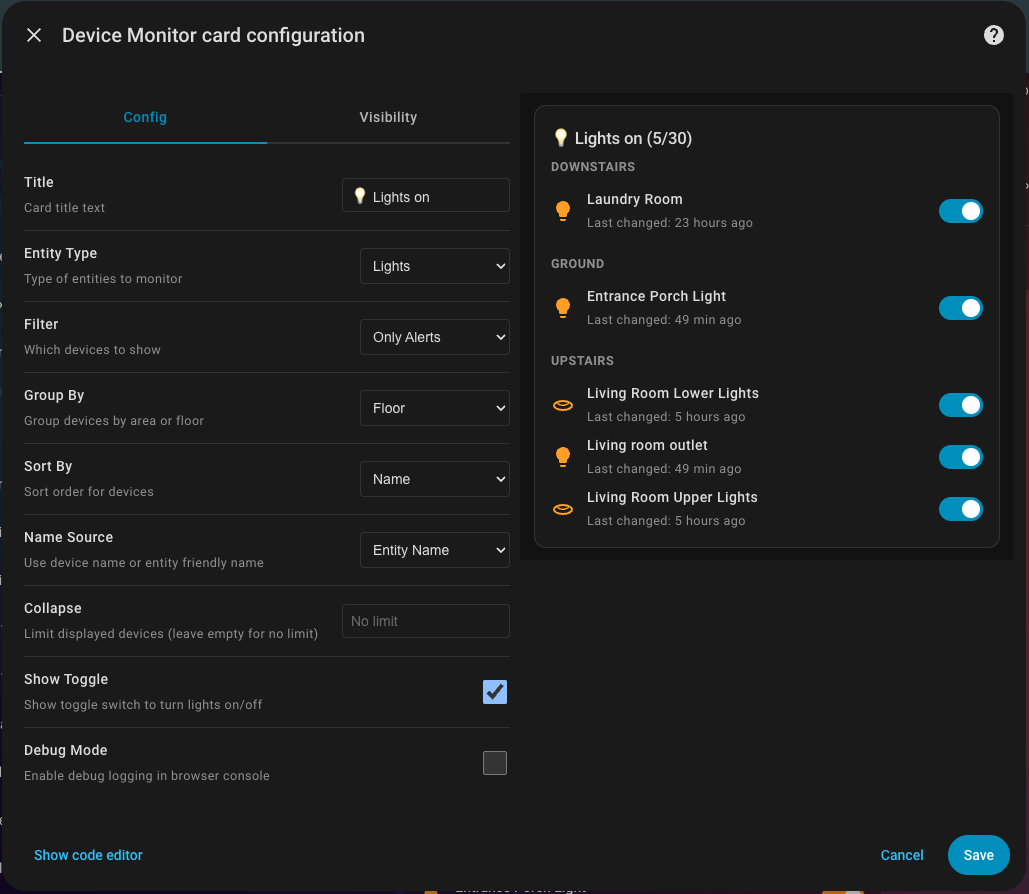
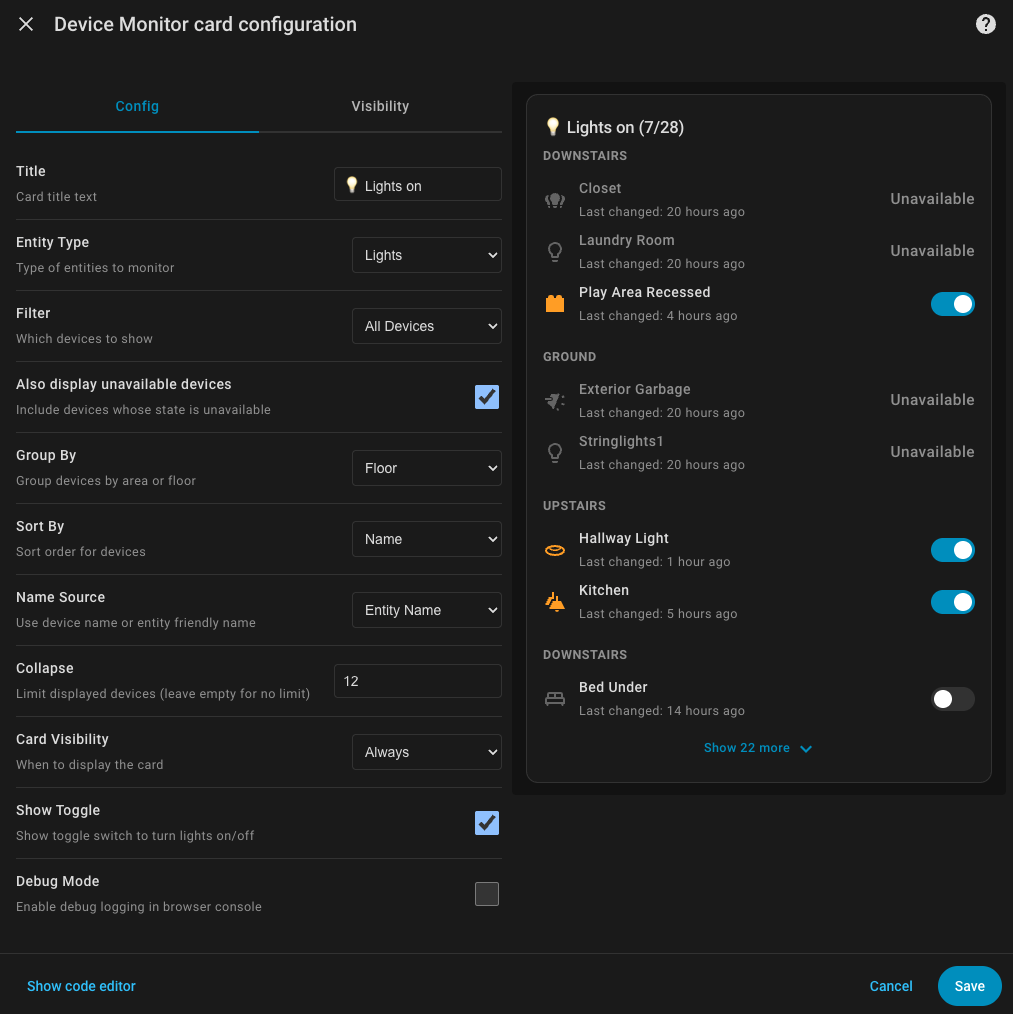
feat: show unavailable devices
Add option to show unavailable devices as part of the alerts

- - - - - - -

Fix #13

diff --git a/dist/device-monitor-card.js b/dist/device-monitor-card.js
@@ -15,6 +15,8 @@
 /**
  * Localization Helper for multi-language support
  */
+const CARD_VERSION = '1.2.2';
+
 class LocalizationHelper {
   constructor() {
     this.translations = {};
@@ -33,7 +35,7 @@ class LocalizationHelper {
 
     this.loadPromises[language] = (async () => {
       try {
-        const response = await fetch(`/local/community/device-monitor-card/translations/${language}.json`);
+        const response = await fetch(`/local/community/device-monitor-card/translations/${language}.json?v=${CARD_VERSION}`);
         if (!response.ok) {
           throw new Error(`Translation file not found: ${language} (status: ${response.status})`);
         }
@@ -193,13 +195,13 @@ const registryHelpers = {
 
 const collectDevices = (hass, config, options = {}) => {
   if (!hass) {
-    return { alertDevices: [], normalDevices: [], totalDevices: 0, allDevices: [] };
+    return { alertDevices: [], normalDevices: [], unavailableDevices: [], totalDevices: 0, allDevices: [] };
   }
 
   const entityType = config.entity_type || 'battery';
   const strategy = ENTITY_TYPES[entityType];
   if (!strategy) {
-    return { alertDevices: [], normalDevices: [], totalDevices: 0, allDevices: [] };
+    return { alertDevices: [], normalDevices: [], unavailableDevices: [], totalDevices: 0, allDevices: [] };
   }
 
   const includeArea = options.includeArea || false;
@@ -270,7 +272,11 @@ const collectDevices = (hass, config, options = {}) => {
     }
 
     const entityName = attributes.friendly_name || entityId;
-    const stateInfo = strategy.evaluateState({ ...entity, entity_id: entityId }, config, hass);
+    const isUnavailable = entity?.state === 'unavailable';
+    const stateInfo = {
+      ...strategy.evaluateState({ ...entity, entity_id: entityId }, config, hass),
+      isUnavailable
+    };
     const storageKey = entityType === 'battery' ? deviceId : entityId;
 
     const existingDevice = devices[storageKey];
@@ -306,6 +312,7 @@ const collectDevices = (hass, config, options = {}) => {
   const allDevices = Object.values(devices);
   const alertDevices = allDevices.filter(d => d.stateInfo.isAlert);
   const normalDevices = allDevices.filter(d => !d.stateInfo.isAlert);
+  const unavailableDevices = allDevices.filter(d => d.stateInfo.isUnavailable);
 
   if (debug) {
     console.log(`[Device Monitor ${debugTag}] Summary for ${entityType}:`, {
@@ -318,6 +325,7 @@ const collectDevices = (hass, config, options = {}) => {
   return {
     alertDevices,
     normalDevices,
+    unavailableDevices,
     allDevices,
     totalDevices: allDevices.length
   };
@@ -403,6 +411,7 @@ const ENTITY_TYPES = {
 
     // Get color for battery state
     getColor: (state) => {
+      if (state.isUnavailable) return 'var(--disabled-text-color, #9e9e9e)';
       if (state.value === 'low') return '#ff0000';
       if (state.value === 'ok') return '#44739e';
       if (state.numericValue === null) return '#ffa500';
@@ -488,6 +497,7 @@ const ENTITY_TYPES = {
 
     // Get color for contact sensor state
     getColor: (state) => {
+      if (state.isUnavailable) return 'var(--disabled-text-color, #9e9e9e)';
       return state.isAlert ? '#ffa500' : 'var(--success-color, #4caf50)';
     },
 
@@ -533,6 +543,7 @@ const ENTITY_TYPES = {
 
     // Get color for light state
     getColor: (state) => {
+      if (state.isUnavailable) return 'var(--disabled-text-color, #9e9e9e)';
       return state.isAlert ? '#ffa500' : 'var(--disabled-text-color, #9e9e9e)';
     },
 
@@ -579,6 +590,7 @@ class DeviceMonitorCard extends HTMLElement {
     this._config = {
       entity_type: entityType,
       filter: config.filter || 'alert',
+      show_unavailable: config.show_unavailable || false,
       battery_threshold: config.battery_threshold || 20,
       title: config.title || defaultTitle,
       debug: config.debug || false,
@@ -612,22 +624,48 @@ class DeviceMonitorCard extends HTMLElement {
    * Get all devices for the configured entity type
    */
   _getDevices() {
-    const { alertDevices, normalDevices, totalDevices } = collectDevices(this._hass, this._config, {
+    const { alertDevices, normalDevices, unavailableDevices, totalDevices } = collectDevices(this._hass, this._config, {
       includeArea: true,
       debug: this._config.debug,
       debugTag: 'Card'
     });
 
-    const groupedAlertDevices = this._groupDevices(alertDevices);
-    const groupedNormalDevices = this._groupDevices(normalDevices);
+    const includeUnavailable = this._config.show_unavailable;
+
+    // Clone arrays to avoid mutating original collections
+    let alerts = [...alertDevices];
+    let normals = [...normalDevices];
+
+    if (includeUnavailable) {
+      const unavailableIds = new Set(unavailableDevices.map(d => d.entityId));
+      const alertIds = new Set(alerts.map(d => d.entityId));
+
+      unavailableDevices.forEach(device => {
+        if (!alertIds.has(device.entityId)) {
+          alerts.push(device);
+        }
+      });
+
+      normals = normals.filter(d => !unavailableIds.has(d.entityId));
+    } else {
+      alerts = alerts.filter(d => !d.stateInfo.isUnavailable);
+      normals = normals.filter(d => !d.stateInfo.isUnavailable);
+    }
+
+    const groupedAlertDevices = this._groupDevices(alerts);
+    const groupedNormalDevices = this._groupDevices(normals);
 
     const sortedAlertDevices = this._sortDevices(groupedAlertDevices);
     const sortedNormalDevices = this._sortDevices(groupedNormalDevices);
 
+    const adjustedTotal = includeUnavailable
+      ? totalDevices
+      : Math.max(0, totalDevices - unavailableDevices.length);
+
     return {
       alertDevices: sortedAlertDevices,
       normalDevices: sortedNormalDevices,
-      totalDevices: totalDevices
+      totalDevices: adjustedTotal
     };
   }
 
@@ -836,13 +874,24 @@ class DeviceMonitorCard extends HTMLElement {
   }
 
   /**
+   * Localized label for unavailable state
+   */
+  _getUnavailableLabel() {
+    if (!this._hass) return 'Unavailable';
+    const localized = this._hass.localize?.('state.default.unavailable') ||
+      this._hass.localize?.('state.unavailable');
+    return localized || 'Unavailable';
+  }
+
+  /**
    * Render a single device row
    */
   _renderDevice(device) {
     const strategy = ENTITY_TYPES[this._config.entity_type];
     const stateInfo = { ...device.stateInfo, attributes: device.attributes, entityId: device.entityId };
     const isLight = this._config.entity_type === 'light';
-    const showToggle = this._config.show_toggle && isLight;
+    const isUnavailable = stateInfo.isUnavailable;
+    const showToggle = this._config.show_toggle && isLight && !isUnavailable;
     const isOn = device.stateInfo.value === 'on';
 
     // Use custom icon if set, otherwise use strategy icon
@@ -851,6 +900,9 @@ class DeviceMonitorCard extends HTMLElement {
 
     // Choose name based on config
     const displayName = this._config.name_source === 'entity' ? device.entityName : device.deviceName;
+    const nameClass = `device-name${isUnavailable ? ' unavailable' : ''}`;
+    const stateValue = isUnavailable ? this._getUnavailableLabel() : device.stateInfo.displayValue;
+    const stateValueClass = `state-value${isUnavailable ? ' unavailable' : ''}`;
 
     return `
       <div class="device-item" data-device-id="${device.deviceId}" data-entity-id="${device.entityId}">
@@ -861,7 +913,7 @@ class DeviceMonitorCard extends HTMLElement {
           ></ha-icon>
         </div>
         <div class="device-info">
-          <div class="device-name">${displayName}</div>
+          <div class="${nameClass}">${displayName}</div>
           <div class="device-secondary">
             ${localizationHelper.localize('labels.last_changed')}: ${this._formatLastChanged(device.lastChanged)}
           </div>
@@ -874,8 +926,8 @@ class DeviceMonitorCard extends HTMLElement {
             </label>
           </div>
         ` : `
-          <div class="state-value">
-            ${device.stateInfo.displayValue}
+          <div class="${stateValueClass}">
+            ${stateValue}
           </div>
         `}
       </div>
@@ -1045,6 +1097,10 @@ class DeviceMonitorCard extends HTMLElement {
           white-space: nowrap;
         }
 
+        .device-name.unavailable {
+          color: var(--secondary-text-color);
+        }
+
         .device-secondary {
           font-size: 0.9em;
           color: var(--secondary-text-color);
@@ -1057,6 +1113,10 @@ class DeviceMonitorCard extends HTMLElement {
           margin-left: 12px;
           flex-shrink: 0;
           color: var(--primary-text-color);
+        }
+
+        .state-value.unavailable {
+          color: var(--secondary-text-color);
         }
 
         .toggle-container {
@@ -1246,6 +1306,7 @@ class DeviceMonitorCard extends HTMLElement {
     return {
       entity_type: 'battery',
       filter: 'alert',
+      show_unavailable: false,
       battery_threshold: 20,
       title: 'Low Battery',
       card_visibility: 'always',
@@ -1439,6 +1500,18 @@ class DeviceMonitorCardEditor extends HTMLElement {
           </select>
         </div>
 
+        <div class="option">
+          <div class="label-container">
+            <label>${l('show_unavailable')}</label>
+            <div class="description">${l('show_unavailable_description')}</div>
+          </div>
+          <input
+            id="show_unavailable"
+            type="checkbox"
+            ${this._config.show_unavailable ? 'checked' : ''}
+          />
+        </div>
+
         <div class="option ${showBatteryThreshold ? '' : 'hidden'}" id="battery_threshold_option">
           <div class="label-container">
             <label>${l('battery_threshold')}</label>
@@ -1558,6 +1631,7 @@ class DeviceMonitorCardEditor extends HTMLElement {
     const titleInput = this.querySelector('#title');
     const entityTypeInput = this.querySelector('#entity_type');
     const filterInput = this.querySelector('#filter');
+    const showUnavailableInput = this.querySelector('#show_unavailable');
     const thresholdInput = this.querySelector('#battery_threshold');
     const groupByInput = this.querySelector('#group_by');
     const sortByInput = this.querySelector('#sort_by');
@@ -1594,6 +1668,12 @@ class DeviceMonitorCardEditor extends HTMLElement {
     filterInput.onchange = updateConfig((config, target) => {
       config.filter = target.value;
     }, false);
+
+    if (showUnavailableInput) {
+      showUnavailableInput.onchange = updateConfig((config, target) => {
+        config.show_unavailable = target.checked;
+      }, false);
+    }
 
     groupByInput.onchange = updateConfig((config, target) => {
       config.group_by = target.value || null;
@@ -1662,6 +1742,7 @@ class DeviceMonitorBadge extends HTMLElement {
       battery_threshold: config.battery_threshold || 20,
       title: config.title || defaultTitle,
       badge_visibility: config.badge_visibility || 'always',
+      show_unavailable: config.show_unavailable || false,
       debug: config.debug || false,
       ...config,
       tap_action: tapAction,
@@ -1684,13 +1765,29 @@ class DeviceMonitorBadge extends HTMLElement {
    * Get all devices for the configured entity type
    */
   _getDevices() {
-    const { alertDevices, totalDevices } = collectDevices(this._hass, this._config, {
+    const { alertDevices, unavailableDevices, totalDevices } = collectDevices(this._hass, this._config, {
       includeArea: false,
       debug: this._config.debug,
       debugTag: 'Badge'
     });
 
-    return { alertDevices, totalDevices };
+    const includeUnavailable = this._config.show_unavailable;
+    let alerts = [...alertDevices];
+
+    if (includeUnavailable) {
+      const alertIds = new Set(alerts.map(d => d.entityId));
+      unavailableDevices.forEach(device => {
+        if (!alertIds.has(device.entityId)) {
+          alerts.push(device);
+        }
+      });
+    } else {
+      alerts = alerts.filter(d => !d.stateInfo.isUnavailable);
+    }
+
+    const adjustedTotal = includeUnavailable ? totalDevices : Math.max(0, totalDevices - unavailableDevices.length);
+
+    return { alertDevices: alerts, totalDevices: adjustedTotal };
   }
 
   /**
@@ -1987,6 +2084,7 @@ class DeviceMonitorBadge extends HTMLElement {
       battery_threshold: 20,
       title: 'Low Battery',
       badge_visibility: 'always',
+      show_unavailable: false,
       debug: false,
       tap_action: { action: 'none' },
       hold_action: { action: 'none' },
@@ -2200,6 +2298,18 @@ class DeviceMonitorBadgeEditor extends HTMLElement {
 
         <div class="option">
           <div class="label-container">
+            <label>${l('show_unavailable')}</label>
+            <div class="description">${l('show_unavailable_description')}</div>
+          </div>
+          <input
+            id="show_unavailable"
+            type="checkbox"
+            ${this._config.show_unavailable ? 'checked' : ''}
+          />
+        </div>
+
+        <div class="option">
+          <div class="label-container">
             <label>${l('card_visibility')}</label>
             <div class="description">${l('badge_visibility_description')}</div>
           </div>
@@ -2312,6 +2422,7 @@ class DeviceMonitorBadgeEditor extends HTMLElement {
       const titleInput = this.querySelector('#title');
       const entityTypeInput = this.querySelector('#entity_type');
       const thresholdInput = this.querySelector('#battery_threshold');
+      const showUnavailableInput = this.querySelector('#show_unavailable');
       const badgeVisibilityInput = this.querySelector('#badge_visibility');
       const tapActionTypeInput = this.querySelector('#tap_action_type');
       const tapActionNavigateInput = this.querySelector('#tap_action_navigation_path');
@@ -2344,6 +2455,12 @@ class DeviceMonitorBadgeEditor extends HTMLElement {
         thresholdInput.oninput = updateConfig((config, target) => {
           config.battery_threshold = Number(target.value);
         }, true);
+      }
+
+      if (showUnavailableInput) {
+        showUnavailableInput.onchange = updateConfig((config, target) => {
+          config.show_unavailable = target.checked;
+        }, false);
       }
 
       if (tapActionNavigateInput) {

diff --git a/README.md b/README.md
@@ -21,6 +21,7 @@ A versatile Home Assistant Lovelace card and badge that monitors multiple types 
 - **Interactive Controls**: Toggle lights on/off directly from the card (optional)
 - **Custom Icons**: Respects user-configured entity icons
 - **Smart Filtering**: For batteries, excludes duplicate sensors when binary_sensor.*_battery_low exists
+- **Unavailable Handling**: Optional switch to include unavailable devices (shown muted, without toggles, using HA’s localized “unavailable” label)
 - **Color-Coded Icons**: Dynamic icons and colors based on entity state
 - **Clickable Devices**: Click any device to open its device page in Home Assistant
 - **Responsive Design**: Mobile-friendly layout that matches Home Assistant's style
@@ -142,6 +143,16 @@ show_toggle: true
 title: Lights On
 ```
 
+#### Include Unavailable Lights
+```yaml
+type: custom:device-monitor-card
+entity_type: light
+filter: all
+show_unavailable: true
+group_by: floor
+title: Lights Status
+```
+
 ### Advanced Configuration Examples
 
 #### Batteries Grouped by Area
@@ -185,6 +196,7 @@ collapse: 10
 | `sort_by` | string | `'state'` | Sort order: `'state'`, `'name'`, or `'last_changed'` |
 | `name_source` | string | `'device'` | Display name: `'device'` (device name) or `'entity'` (entity friendly name) |
 | `show_toggle` | boolean | `false` | (Light only) Show toggle switch to turn lights on/off |
+| `show_unavailable` | boolean | `false` | Include entities whose state is unavailable (shown in alert list with muted styling and no toggle) |
 | `collapse` | number | `undefined` | If set, collapse to show only this many devices with expand button |
 | `debug` | boolean | `false` | Enable debug logging in browser console |
 
